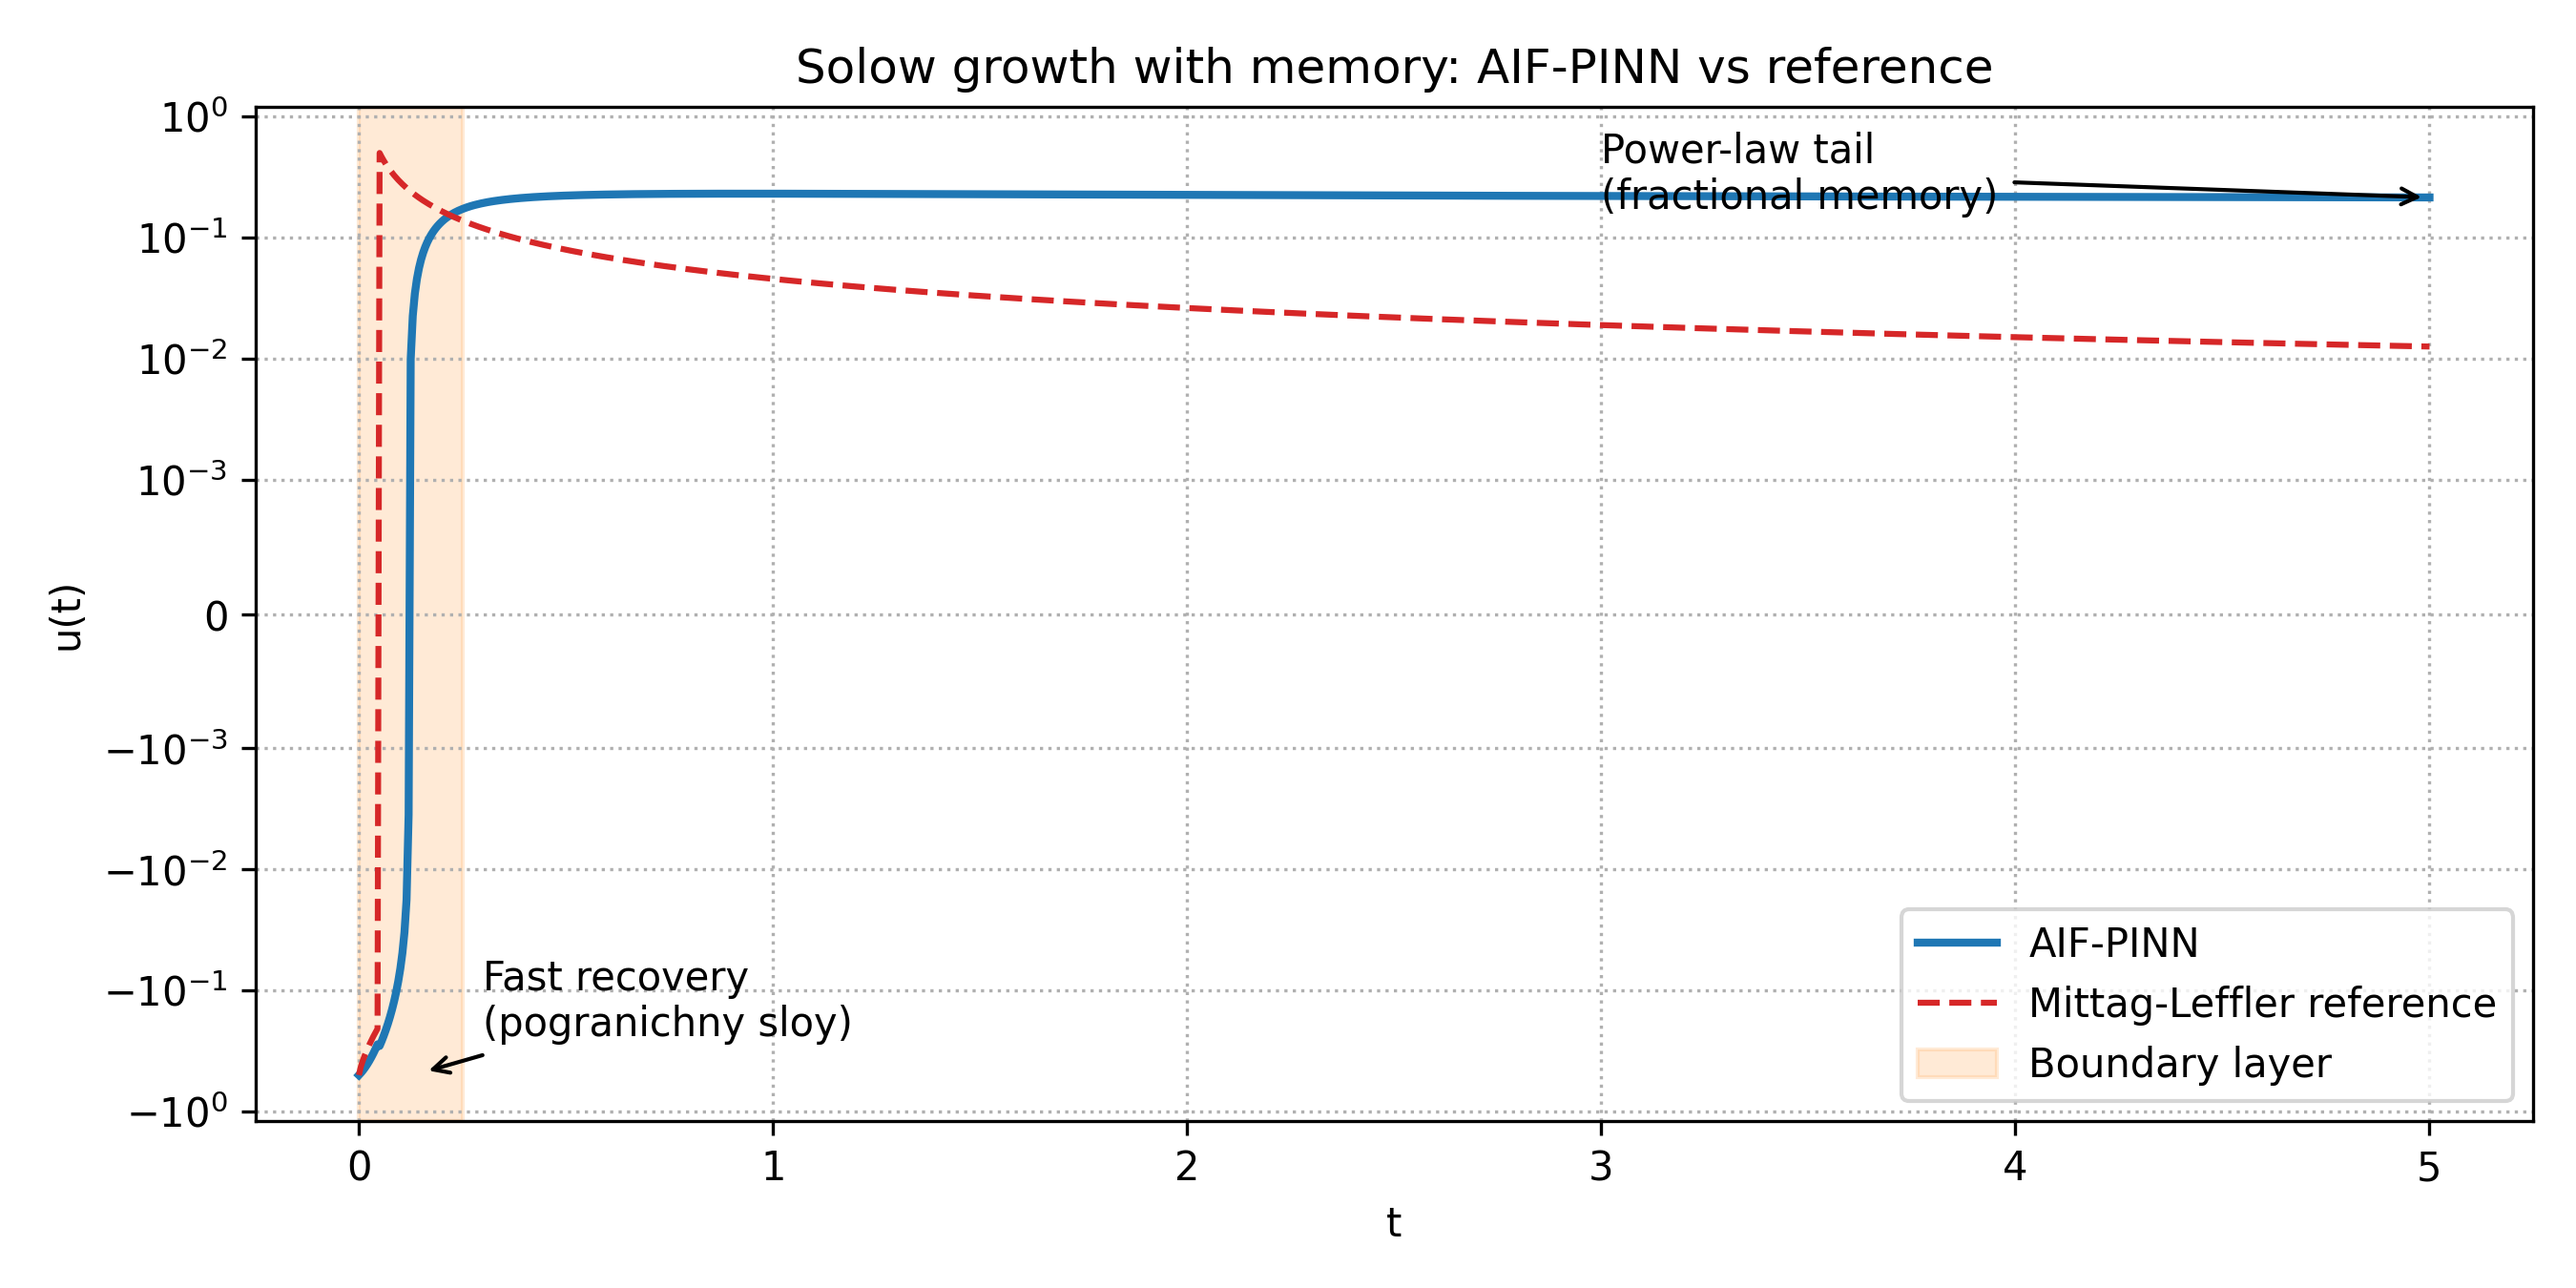
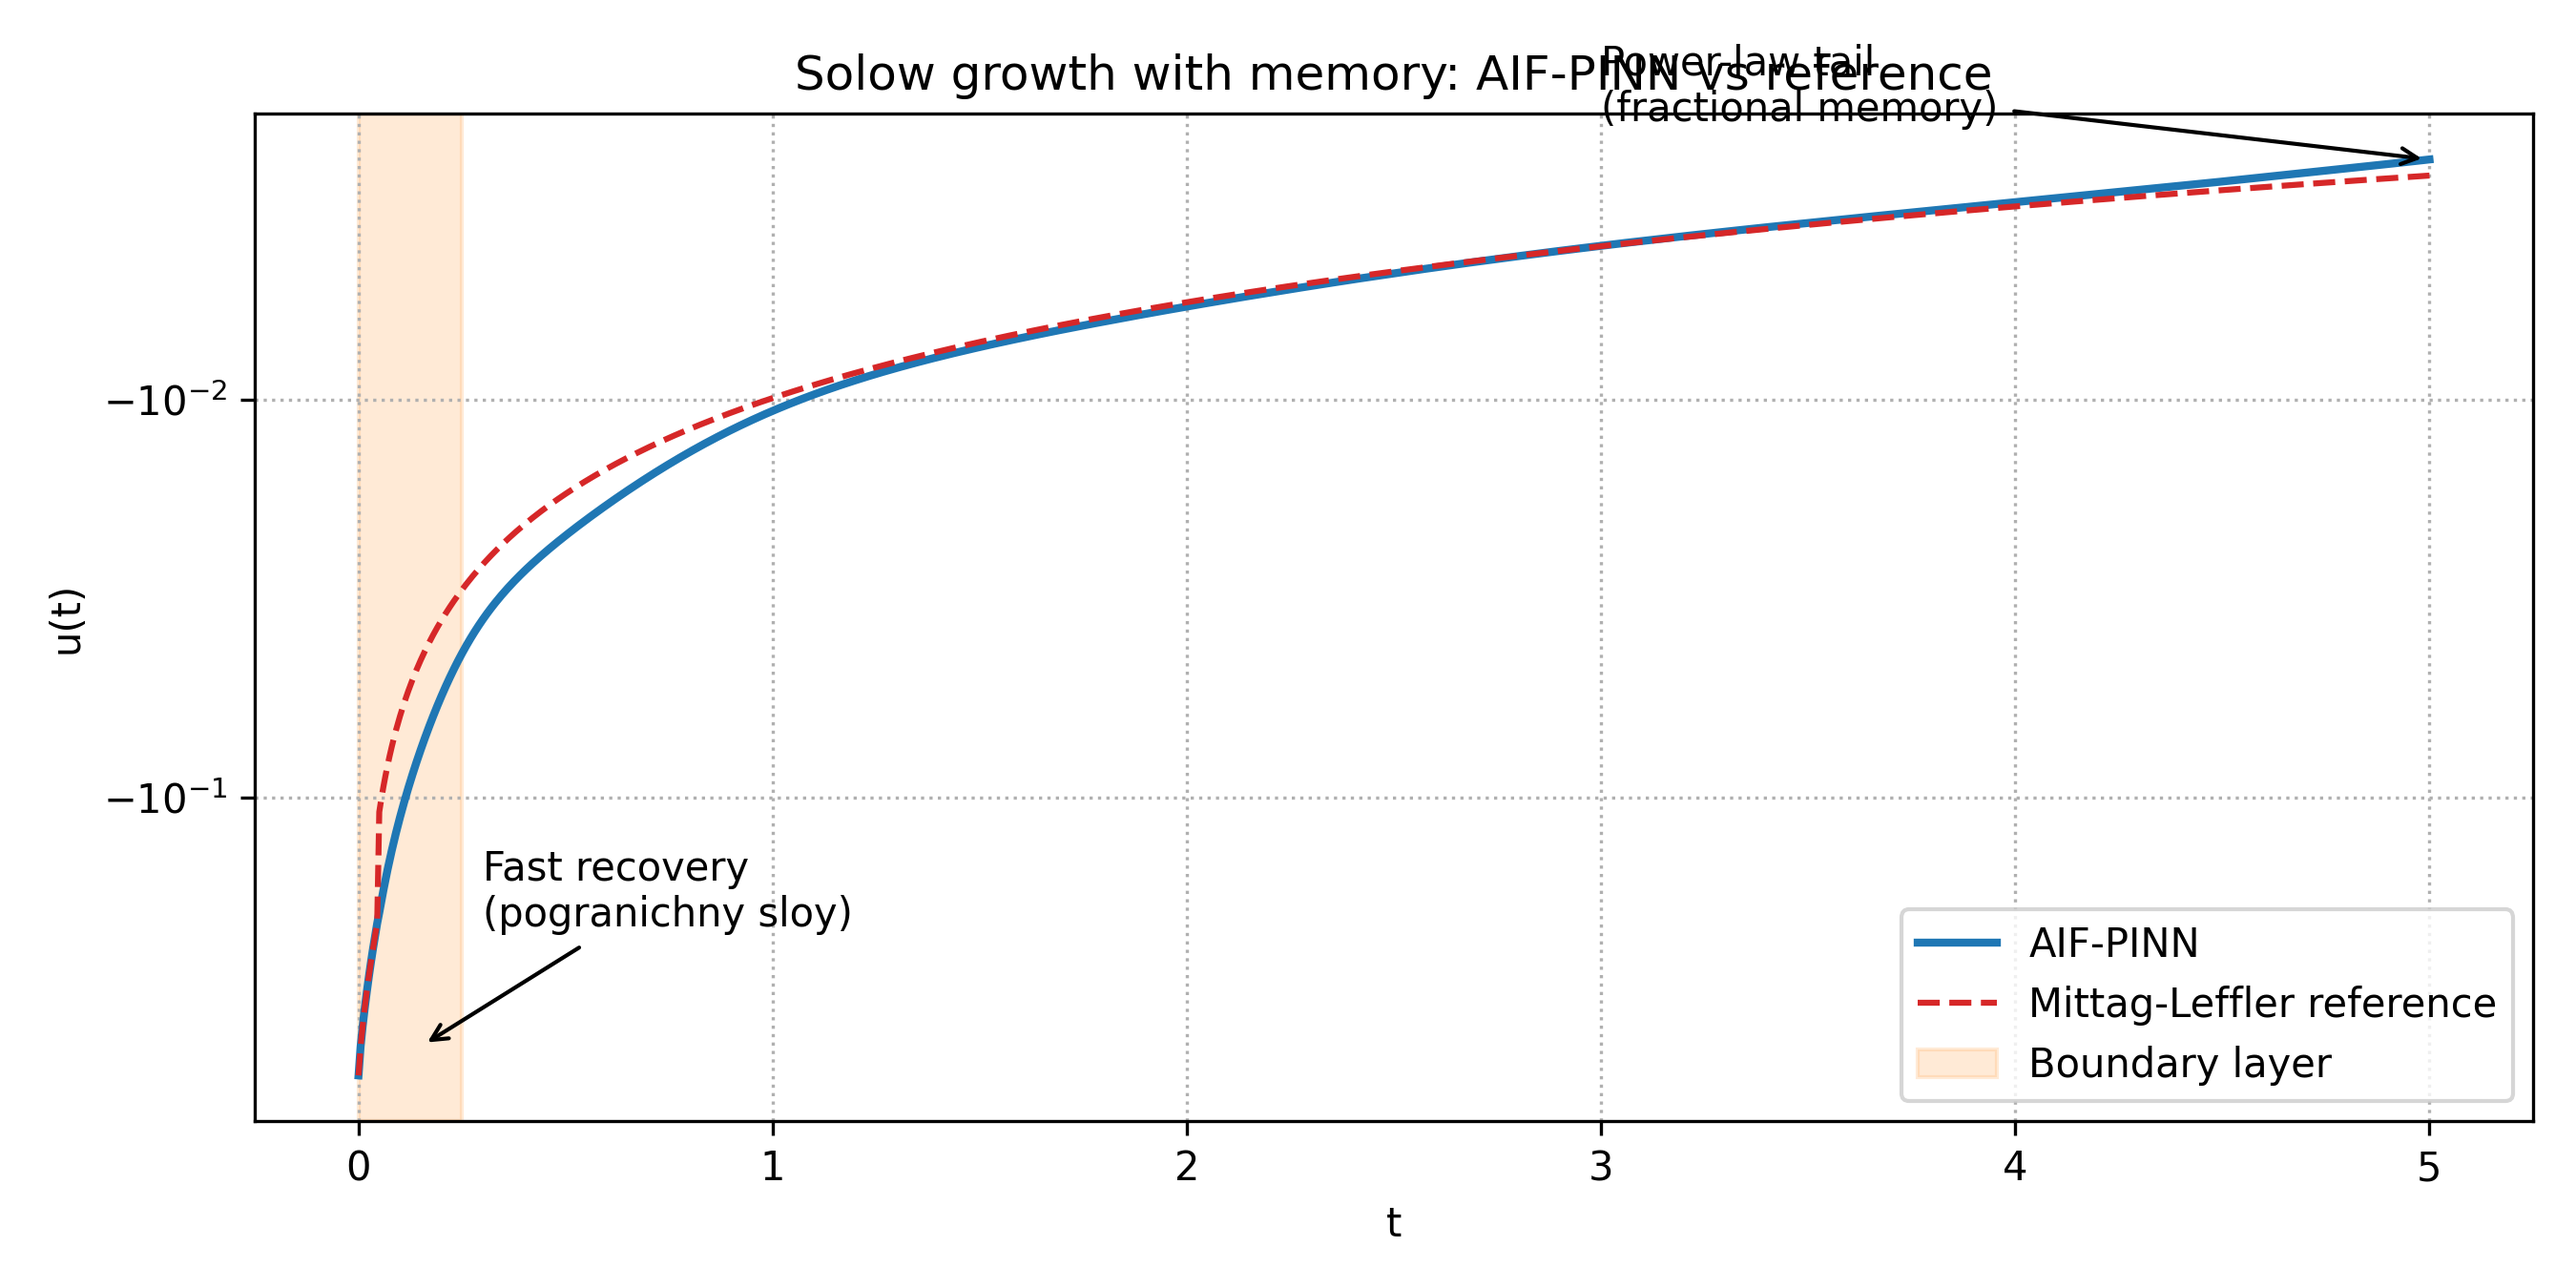
Update

diff --git a/run_experiment.py b/run_experiment.py
@@ -97,7 +97,7 @@ def parse_args() -> argparse.Namespace:
     parser = argparse.ArgumentParser(description="Train AIF-PINN on the fractional Solow growth model.")
     parser.add_argument("--num-collocation", type=int, default=512, help="Number of collocation points.")
     parser.add_argument("--adam-steps", type=int, default=3000, help="Number of Adam iterations.")
-    parser.add_argument("--lbfgs-iter", type=int, default=200, help="Number of L-BFGS iterations.")
+    parser.add_argument("--lbfgs-iter", type=int, default=2000, help="Number of L-BFGS iterations.")
     parser.add_argument("--adam-lr", type=float, default=1e-3, help="Adam learning rate.")
     parser.add_argument("--epsilon", type=float, default=0.05, help="Relaxation parameter epsilon.")
     parser.add_argument("--horizon", type=float, default=5.0, help="Time horizon for training and evaluation.")

diff --git a/aif_pinn/config.py b/aif_pinn/config.py
@@ -224,14 +224,15 @@ def _mittag_leffler_approx(
         result[small_mask] = series
 
     if (~small_mask).any():
-        # Simple asymptotic 1/z behaviour in the outer region of the boundary layer.
+        # Use the leading term of the asymptotic expansion -1/(z * Gamma(1 - alpha)).
         large_z = z[~small_mask]
         safe_large = torch.where(
             torch.abs(large_z) < 1e-8,
             torch.full_like(large_z, 1e-8),
             large_z,
         )
-        result[~small_mask] = 1.0 / safe_large
+        gamma_factor = math.gamma(1.0 - alpha)
+        result[~small_mask] = -1.0 / (safe_large * gamma_factor)
 
     return result
 
